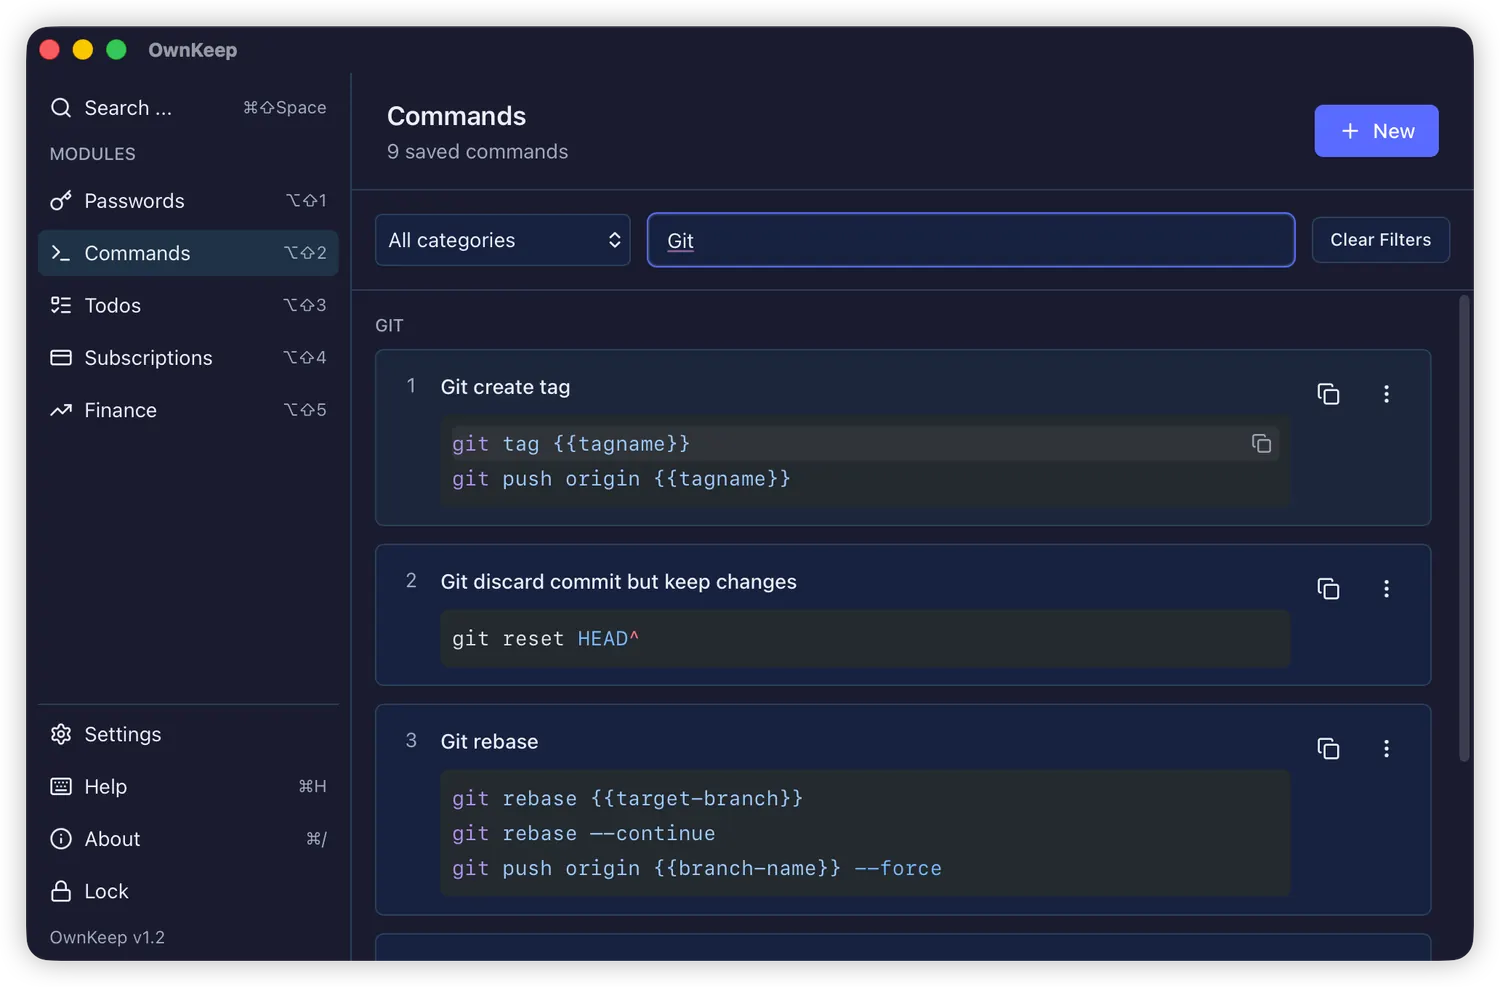
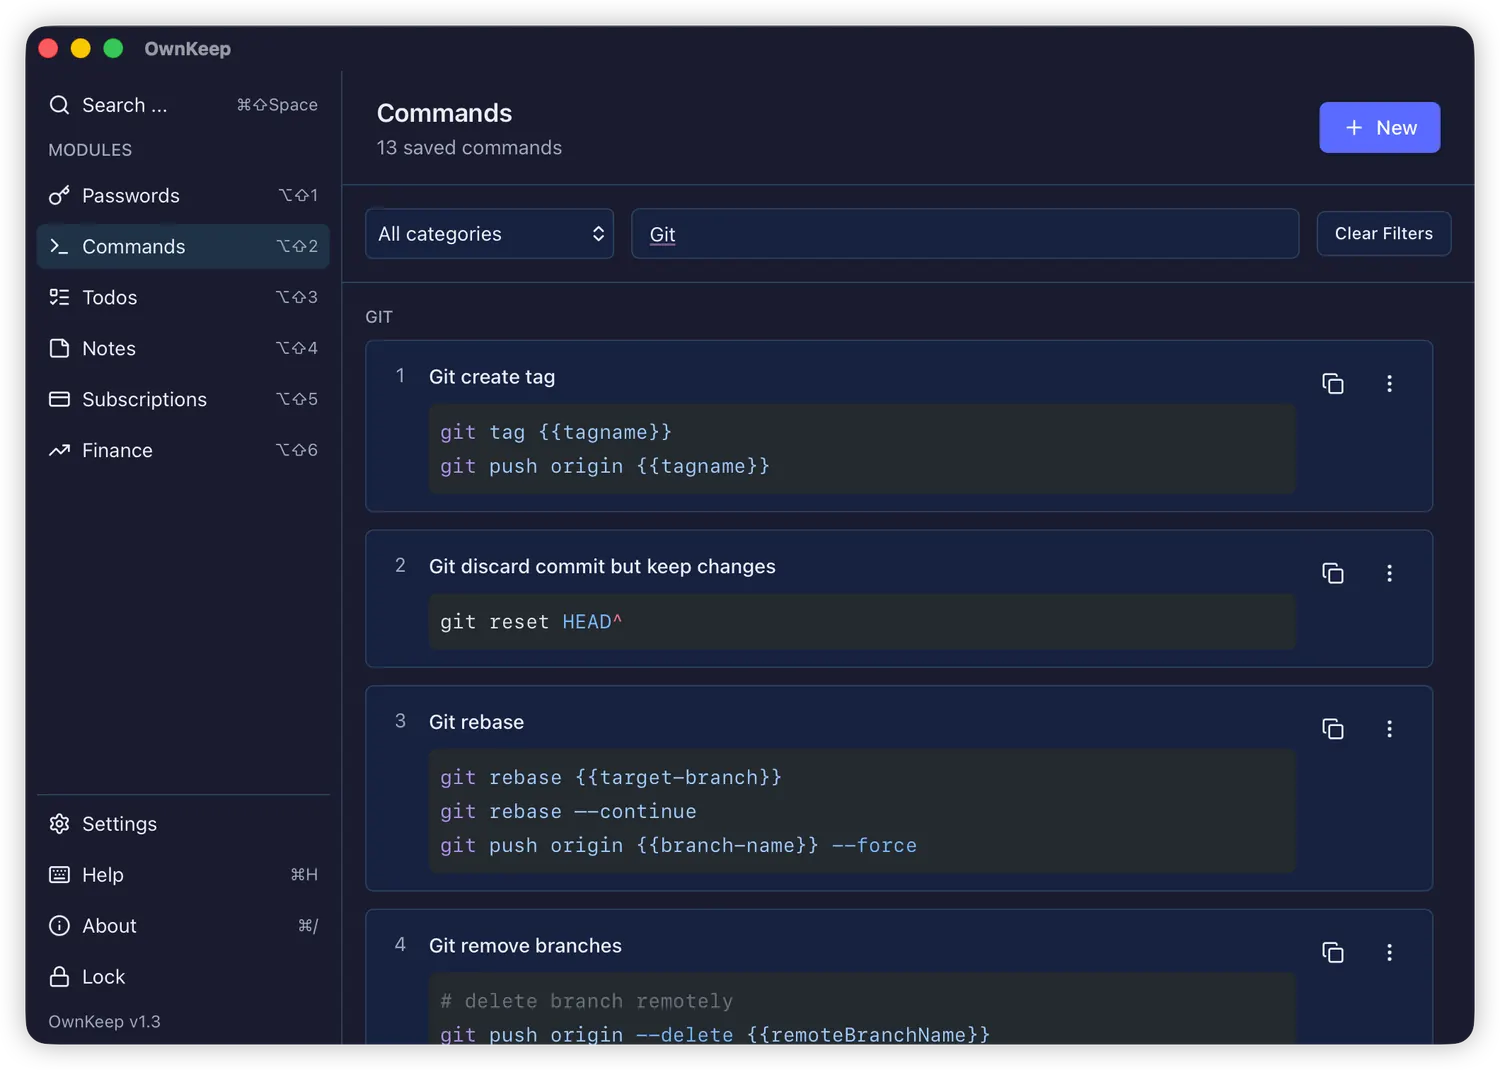
updated README

diff --git a/README.md b/README.md
@@ -45,7 +45,7 @@ Save a snippet once with `{{placeholder}}` markers. When you pick it, OwnKeep pr
 and copies the finished command — so a template with a placeholder in the middle works exactly as
 well as one with a placeholder at the end.
 
-<img src="docs/media/shots/commands.webp" alt="The Commands module: git snippets grouped by category, syntax-highlighted, showing git tag, git reset and git rebase with placeholder markers">
+<img src="docs/media/shots/commands.webp" alt="The Commands module: Git snippets filtered by category, syntax-highlighted, showing git tag, git reset and git rebase with placeholder markers">
 
 Snippets are syntax-highlighted, grouped into categories you define, and searchable by full text —
 not just by title. `⌥⌘1`–`⌥⌘9` copies the raw template instead if you'd rather fill it in yourself.
@@ -54,7 +54,8 @@ not just by title. `⌥⌘1`–`⌥⌘9` copies the raw template instead if you'
 
 The bar is the home screen. Results rank by **fuzzy match × frecency**, so the things you actually
 use surface first instead of whatever happens to match alphabetically. Scope prefixes narrow to one
-module when you already know where you're going.
+module when you already know where you're going — `n` for notes, for example. Notes stay out of the
+bar by default so a long body never drowns a login; turn searchability on per module in Settings.
 
 Nothing needs the mouse: `⌥⇧1`–`⌥⇧9` runs a result's primary action — copy the password, fill in the
 command — and `Esc` makes the bar disappear. It hides on blur too, so it never becomes another window
@@ -64,17 +65,17 @@ to manage.
 
 Passwords and commands are the core. Todos, notes, subscriptions, and finance are modules — each
 toggles from Settings with its data preserved, and each shows up in the same bar and the same
-Dashboard sidebar.
+Dashboard sidebar. v1.3 added Notes at `⌥⇧4`, so Subscriptions is `⌥⇧5` and Finance is `⌥⇧6`.
 
 | | |
 |:--|:--|
-| <img src="docs/media/shots/passwords.webp" alt="The Passwords module: logins in a sortable table with categories"><br>**Passwords** — logins with categories, sortable columns, and one-click concealed copy for usernames and passwords. | <img src="docs/media/shots/todos.webp" alt="The Todos module showing tasks with due dates and priorities"><br>**Todos** — due dates, priorities, recurrence, and notifications that fire once per window. |
-| <img src="docs/media/shots/subscriptions.webp" alt="The Subscriptions module showing recurring services with renewal dates"><br>**Subscriptions** — what renews, when, and what it costs, with lead-time reminders before you're charged. | <img src="docs/media/shots/finance.webp" alt="The Finance module showing a net-worth trend chart and category breakdown"><br>**Finance** — periodic snapshots, per-category stats, a net-worth trend, and a manual FX table. |
-| <img src="docs/media/shots/notes.webp" alt="The Notes module showing a Markdown note with its formatting toolbar and preview"><br>**Notes** — Markdown with a formatting toolbar, preview and full-screen mode, grouped by category and sorted by last edited. Code blocks copy a line at a time. | |
+| <img src="docs/media/shots/passwords.webp" alt="The Passwords module: logins in a sortable table with categories, usernames, and concealed passwords"><br>**Passwords** — logins with categories, sortable columns, and one-click concealed copy for usernames and passwords. | <img src="docs/media/shots/todos.webp" alt="The Todos module showing open and done tasks with due dates, priorities, and categories"><br>**Todos** — due dates, priorities, recurrence, and notifications that fire once per window. |
+| <img src="docs/media/shots/notes.webp" alt="The Notes module showing Markdown notes grouped by category, sorted by last edited"><br>**Notes** — Markdown with a formatting toolbar, preview and full-screen mode, grouped by category and sorted by last edited. Code blocks copy a line at a time. Kept out of the command bar by default so long prose never buries a login. | <img src="docs/media/shots/subscriptions.webp" alt="The Subscriptions module showing monthly and yearly totals plus upcoming and overdue renewals"><br>**Subscriptions** — what renews, when, and what it costs, with lead-time reminders before you're charged. Auto-renewing services roll themselves forward on the invoice day. |
+| <img src="docs/media/shots/finance.webp" alt="The Finance module showing a net-worth trend chart and snapshot list"><br>**Finance** — periodic snapshots, per-category stats, a net-worth trend, and a manual FX table. | |
 
-Calendar and bookmarks are candidates for later — the module registry is what makes adding one a
-self-contained job rather than surgery on the core. Notes was the first module added after v1.0, and
-it took one folder and one line in the registry.
+Calendar, lists, and bookmarks are candidates for later — the module registry is what makes adding
+one a self-contained job rather than surgery on the core. Notes shipped in v1.3 as the first module
+added after v1.0: one folder and one line in the registry.
 
 ## One door in
 
@@ -148,10 +149,11 @@ Found a vulnerability? [Report it privately](https://github.com/ownkeep-app/ownk
 - **Signing & Touch ID on macOS:** [`code-signing.md`](code-signing.md)
 - **Rules for humans & AI agents:** [`AGENTS.md`](AGENTS.md), [`.cursor/rules/`](.cursor/rules/)
 
-> **Status:** v1.3 shipped — adds the Notes module and auto-renewing subscriptions that roll
-> themselves forward, on top of the signed, notarized, Touch ID-enabled v1.2. The encrypted vault
-> core, every feature module, the command bar, Dashboard, backup/restore, scheduler, and migration
-> framework are all in place (see [`plan.md`](plan.md)).
+> **Status:** v1.3 shipped — Notes module (`⌥⇧4`), auto-renewing subscriptions that roll themselves
+> forward, and reminder dedupe per due occurrence, on top of the signed, notarized, Touch ID-enabled
+> v1.2. The vault schema is unchanged. The encrypted vault core, every feature module, the command
+> bar, Dashboard, backup/restore, scheduler, and migration framework are all in place (see
+> [`plan.md`](plan.md)).
 
 ---
 
@@ -238,8 +240,12 @@ OwnKeep app. Your data is untouched because the vault lives outside the app bund
 Existing `.dat` backups remain restorable regardless of their filename prefix. If you are coming
 from a build older than v1.2, regenerate the Emergency Kit once from Settings to move its recovery
 wrap to the current OwnKeep derivation context; the reader still accepts the existing code until you
-do. v1.3 changes no data shape — it adds an empty `notes` slice on first open and nothing else, so
-upgrading from v1.2 runs no migration.
+do.
+
+v1.3 changes no data shape — it adds an empty `notes` slice on first open and nothing else, so
+upgrading from v1.2 runs no migration and does not re-issue the Emergency Kit. **One thing will
+surprise your fingers:** Notes takes `⌥⇧4`, so Subscriptions moves to `⌥⇧5` and Finance to `⌥⇧6`.
+Modules are numbered by their position in the sidebar, so inserting one shifts everything below it.
 
 When a new build introduces a data-shape change, opening your existing vault shows a **migration
 guide** before anything is written: it summarizes added fields, shows renamed paths (`old → new`), and

diff --git a/docs/media/README.md b/docs/media/README.md
@@ -7,11 +7,12 @@ places.
 ```
 docs/media/
 ├── icon.png              app icon, 256×256
-└── shots/                1500×936 WebP, dark theme, default #5B6CFF accent
+└── shots/                WebP, dark theme, default #5B6CFF accent
     ├── command-bar.webp        README hero — "git re" ranked results with placeholders
     ├── commands.webp           Commands module, git snippets by category
-    ├── passwords.webp          Passwords module
+    ├── passwords.webp          Passwords module (hero on ownkeep.app)
     ├── todos.webp              Todos module
+    ├── notes.webp              Notes module (v1.3)
     ├── subscriptions.webp      Subscriptions module
     ├── finance.webp            Finance module
     ├── lock-screen.webp        Lock screen: master password + Touch ID
@@ -28,8 +29,9 @@ your real vault stays untouched. Never publish a screenshot of a real vault: eve
 leak site names, usernames, and your actual subscriptions.
 
 Keep the set consistent — same theme, same accent, same window size — so the README tables read as
-one set rather than a pile. `⌘⇧4` then `Space` captures a window with its shadow; export to WebP at
-1500×936.
+one set rather than a pile. `⌘⇧4` then `Space` captures a window with its shadow. Encode to WebP
+the same way the website does (max width 1880 for the passwords hero, 1500 for module shots, quality
+78) and copy the result here and to the site's `/shots/` directory.
 
 ## Worth adding later
 
